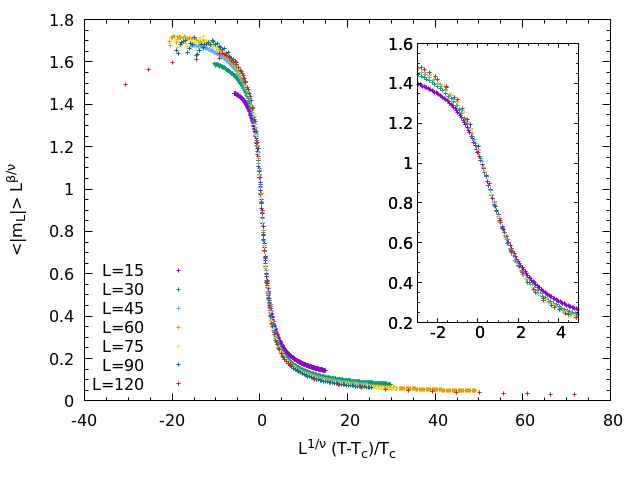
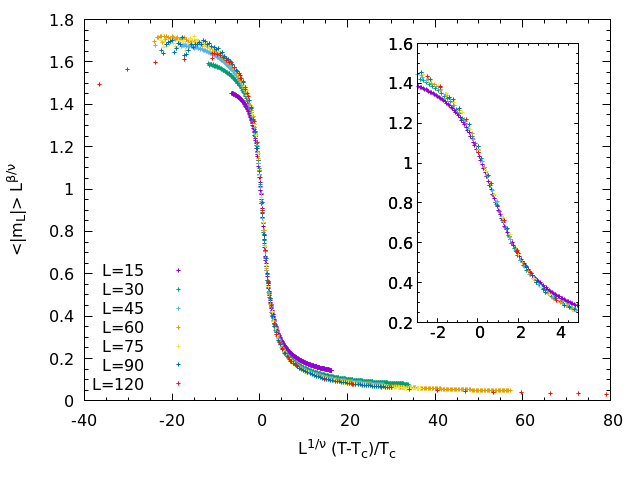
Finished without e

diff --git a/tex.tex b/tex.tex
@@ -298,7 +298,7 @@ $\mathbf{L}$ & $\mathbf{T_c^e}$ & $\mathbf{T_c^{c_V}}$ & $\mathbf{T_c^m}$ & $\ma
 \label{tab:tcs}
 \end{table}
 
-Un cop tenim aquestes temperatures crítiques, en podem representar els comportaments amb l'invers de la longitud, per tal que l'ordenada a l'origen correspongui amb l'extrapolació al límit termodinàmic.
+Un cop tenim aquestes temperatures crítiques, en podem representar els comportaments amb l'invers de la longitud, per tal que l'ordenada a l'origen correspongui amb l'extrapolació al límit termodinàmic. No hi inclourem la temperatura crítica calculada en l'energia, ja que donat que la capacitat calorífica n'és la derivada, són formalment equivalents.
 \begin{figure}[H]
     \centering
     \includegraphics[width=.6\textwidth]{coefs-tc.png}
@@ -308,7 +308,6 @@ Un cop tenim aquestes temperatures crítiques, en podem representar els comporta
 
 Com diem, els ajustos de la figura \ref{fig:tc},
 \begin{align*}
-    T_c^{e} &= (6.64 \pm 0.09)/L + (2.270 \pm 0.003) \\
     T_c^{c_V} &= (0.74 \pm 0.02)/L + (2.2694 \pm 0.0008) \\
     T_c^{m} &= (1.22 \pm 0.09)/L + (2.270 \pm 0.003) \\
     T_c^{\chi} &= (2.14 \pm 0.07)/L + (2.271 \pm 0.002)
@@ -346,22 +345,20 @@ Aleshores, n'hi haurà prou amb representar $\ln(T_{cL}-T_c)$ contra $\ln L$ i f
 
 Els ajustos trobats són els següents:
 \begin{align*}
-    \text{Energia:} &\quad \ln \left(T_{cL}^{e} - T_c\right) = (-0.90 \pm 0.12) \ln L + (-0.7 \pm 0.5) \\
     \text{Capacitat calorífica:} &\quad \ln \left(T_{cL}^{c_V} - T_c\right) = (-1.09 \pm 0.08) \ln L + (0.0 \pm 0.3) \\
     \text{Imantació:} &\quad \ln \left(T_{cL}^{m} - T_c\right) = (-1.01 \pm 0.11) \ln L + (0.2 \pm 0.4) \\
     \text{Susceptibilitat:} &\quad \ln \left(T_{cL}^{\chi} - T_c\right) = (-1.02 \pm 0.04) \ln L + (0.87 \pm 0.16) \\
 \end{align*}
 que condueixen a uns valors de $\nu$:
 \begin{align*}
-	\nu_e &= 1.11 \pm 0.15 \\
-	\nu_{c_V} &= 0.91 \pm 0.07 \\
-	\nu_m &= 0.98 \pm 0.10 \\
+	\nu_{c_V} &= 0.92 \pm 0.07 \\
+	\nu_m &= 0.99 \pm 0.10 \\
 	\nu_\chi &= 0.97 \pm 0.04
 \end{align*}
 
 Prendrem com a valor final la mitjana dels resultats anteriors:
 \begin{equation} \label{nu}
-    \nu = 1.00 \pm 0.08
+    \nu = 0.96 \pm 0.04
 \end{equation}
 
 \begin{figure}[H]
@@ -407,7 +404,7 @@ L'ajust de la figura \ref{fig:coefs-gammanu} resulta:
 
 Sabem que el pendent és $\gamma/\nu$. Per tant, tenint en compte el valor de $\nu$ que obteníem a \eqref{nu} i amb la propagació d'incerteses:
 \begin{equation*}
-	\gamma = 1.75 \pm 0.15
+	\gamma = 1.69 \pm 0.06
 \end{equation*}
 
 De manera completament anàloga amb la imantació i la capacitat calorífica, representats en les figures \ref{fig:coefs-betanu} i \ref{fig:coefs-alphanu}, obtenim uns ajustos
@@ -418,7 +415,7 @@ De manera completament anàloga amb la imantació i la capacitat calorífica, re
 
 que condueixen a uns coeficients
 \begin{equation*}
-	\beta = 0.14 \pm 0.02, \quad \alpha = 0.25 \pm 0.02
+	\beta = 0.14 \pm 0.02, \quad \alpha = 0.239 \pm 0.019
 \end{equation*}
 
 Comparem els resultats que hem obtingut amb els valors teòrics dels coeficients crítics:
@@ -427,16 +424,16 @@ Comparem els resultats que hem obtingut amb els valors teòrics dels coeficients
 \begin{tabular}{ccc}
 \hline
 \textbf{} & \textbf{Obtingut} & \textbf{Teòric} \\ \hline
-$\nu$ & 1.00 $\pm$ 0.08 & 1 \\
-$\gamma$ & 1.75 $\pm$ 0.15 & 1.75 \\
+$\nu$ & 0.96 $\pm$ 0.04 & 1 \\
+$\gamma$ & 1.69 $\pm$ 0.06 & 1.75 \\
 $\beta$ & 0.14 $\pm$ 0.02 & 0.125 \\
-$\alpha$ & 0.25 $\pm$ 0.02 & 0
+$\alpha$ & 0.239 $\pm$ 0.019 & 0
 \end{tabular}
 \caption{Comparació dels valors obtinguts pels exponents crítics amb els teòrics corresponents.}
 \label{tab:critexp}
 \end{table}
 
-Els valors de tots quatre coeficients descriuen el comportament de les seves respectives magnituds termodinàmiques en la zona propera al punt crític. Veiem que els resultats s'ajusten molt bé als valors teòrics pel que fa a $\nu$, $\gamma$ i $\beta$. Per altra banda, per a $\alpha$ no és el cas. El valor teòric $\alpha=0$ és conseqüència que, en el límit termodinàmic, la divergència de la capacitat calorífica és logarítmica. No obstant, aquest resultat no pot obtenir-se amb el model que fem servir aquí, ja que això només podria ser conseqüència de que no hi hagués cap dependència de la capacitat calorífica amb la temperatura, cosa que és no certa per a $L$ finites.
+Els valors de tots quatre coeficients descriuen el comportament de les seves respectives magnituds termodinàmiques en la zona propera al punt crític. Veiem que els resultats s'ajusten força bé als valors teòrics pel que fa a $\nu$, $\gamma$ i $\beta$. Per altra banda, per a $\alpha$ no és el cas. El valor teòric $\alpha=0$ és conseqüència que, en el límit termodinàmic, la divergència de la capacitat calorífica és logarítmica. No obstant, aquest resultat no pot obtenir-se amb el model que fem servir aquí, ja que això només podria ser conseqüència de que no hi hagués cap dependència de la capacitat calorífica amb la temperatura, cosa que és no certa per a $L$ finites.
 
 \section{Finite size scaling}
 
@@ -492,7 +489,7 @@ Al llarg del treball hem descrit quantitativament el comportament d'un sòlid pa
 
 Els resultats obtinguts,
 \begin{equation*}
-    T_c = 2.2704 \pm 0.0009, \qquad \nu = 1.00 \pm 0.08, \qquad \gamma = 1.75 \pm 0.15, \qquad \beta = 0.14 \pm 0.02
+    T_c = 2.2703 \pm 0.0011, \qquad \nu = 0.96 \pm 0.04, \qquad \gamma = 1.69 \pm 0.06, \qquad \beta = 0.14 \pm 0.02
 \end{equation*}
 Les petites discrepàncies i les incerteses han quedat sempre limitades pel rendiment de l'ordinador amb què les simulacions s'han dut a terme i el fet de disposar d'un temps de computació fitat. Això també pot apreciar-se a la figura \ref{fig:plot}, que presenta comportaments erràtics de les magnituds termodinàmiques a baixes temperatures per a $L$ altes. Tot i això, els resultats experimentals són prou bons, i en són prova el fet que en tots els casos les incerteses engloben els valors teòrics i la prova de \textit{finite size scaling}, on una transformació apropiada que involucra els propis valors obtinguts col·lapsa en una corba única prop del punt crític.
 
